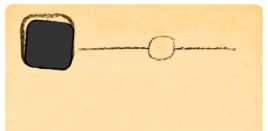
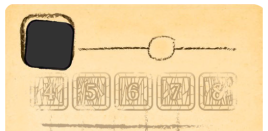
TableGUI - Aggiunti metodi per leggere le tool cards e le public objective cards dopo che sono state pescate e mostrarle su display - Nuovo menu Public Objective Cards - File necessari per il nuovo menu

diff --git a/src/main/java/Progetto_Ing_Sw/com/client/form.css b/src/main/java/Progetto_Ing_Sw/com/client/form.css
@@ -431,12 +431,16 @@
 }
 
 
-
-#CardMenu{
-    -fx-background-color: black;
-
-
+#PublicObjectiveCardMenuHeader{
+    -fx-background-color: transparent;
+    -fx-text-fill: black;
+    -fx-font: 25 "Centaur";
+    -fx-background-image: url("GUI/PublicObjectiveCardMenuHeader.png");
+    -fx-background-repeat: no-repeat;
+    /*-fx-effect: dropshadow( gaussian , rgba(0,0,0,0.75) , 4,0,0,1 );*/
 }
+
+
 #ToolCardMenu{
     -fx-background-color: transparent;
     -fx-background-repeat: no-repeat;
@@ -460,17 +464,16 @@
     -fx-background-image: url("GUI/ToolCardTile.png");
     -fx-background-repeat: no-repeat;
     -fx-effect: dropshadow( gaussian , rgba(0,0,0,0.75) , 4,0,0,1 );
-
 }
 
 
-#ToolCardBTN{
+#CardBTN{
     -fx-background-color: transparent;
     -fx-text-fill: black;
     -fx-font: 25 "Centaur";
 }
 
-#ToolCardBTN:hover{
+#CardBTN:hover{
     -fx-background-color: transparent;
     -fx-text-fill: #903b12;
     -fx-font: 25 "Centaur";
@@ -486,6 +489,15 @@
     -fx-font: 33 "Centaur";
     -fx-text-fill: black;
     -fx-font-weight: bold;
+}
+
+#PublicObjectiveCardLabel{
+    -fx-background-color: transparent;
+    -fx-text-fill: black;
+    -fx-font: 25 "Centaur";
+    -fx-background-image: url("GUI/PublicObjectiveCardTile.png");
+    -fx-background-repeat: no-repeat;
+    -fx-effect: dropshadow( gaussian , rgba(0,0,0,0.75) , 4,0,0,1 );
 }
 
 #PublicObjectiveCardDescription{

diff --git a/src/main/java/Progetto_Ing_Sw/com/client/TableGUI.java b/src/main/java/Progetto_Ing_Sw/com/client/TableGUI.java
@@ -1,6 +1,5 @@
 package Progetto_Ing_Sw.com.client;
 
-import Progetto_Ing_Sw.com.tools.JSONCreator;
 import com.google.gson.JsonArray;
 import com.google.gson.JsonElement;
 import com.google.gson.JsonObject;
@@ -22,7 +21,6 @@ import javafx.scene.text.Text;
 import javafx.scene.text.TextAlignment;
 import javafx.stage.Stage;
 import javafx.stage.StageStyle;
-import javafx.stage.Window;
 import javafx.util.Duration;
 
 import java.io.FileNotFoundException;
@@ -31,8 +29,9 @@ import java.io.FileReader;
 
 public class TableGUI extends Stage{
     Scene GameplayScene;
-    Label ToolCard1Label, ToolCard2Label, ToolCard3Label;
-    Button ToolCard1BTN, ToolCard2BTN, ToolCard3BTN;
+    Label ToolCard1Label, ToolCard2Label, ToolCard3Label, PublicObjectiveCard1Label, PublicObjectiveCard2Label, PublicObjectiveCard3Label;
+    Button ToolCard1BTN, ToolCard2BTN, ToolCard3BTN,PublicObjectiveCard1BTN, PublicObjectiveCard2BTN,PublicObjectiveCard3BTN;
+    Text PublicObjectiveCard1Description,PublicObjectiveCard2Description,PublicObjectiveCard3Description,PublicObjectiveCard1Value,PublicObjectiveCard2Value,PublicObjectiveCard3Value;
 
     TableGUI() {
         this.setTitle("Sagrada Game");
@@ -212,7 +211,7 @@ public class TableGUI extends Stage{
 
             //Bottoni che riferiscono alle Tool Cards
             ToolCard1BTN = new Button("Tool Card1");ToolCard1BTN.setTranslateY(-40);ToolCard1BTN.setTranslateX(10);
-            ToolCard1BTN.setId("ToolCardBTN");
+            ToolCard1BTN.setId("CardBTN");
             ToolCard1BTN.setOnAction(event -> {
                 ToolCard1BTN.setDisable(true);
                 ToolCardDisplayer ToolCard1Stage = new ToolCardDisplayer();
@@ -222,7 +221,7 @@ public class TableGUI extends Stage{
 
 
             ToolCard2BTN = new Button("Tool Card2");ToolCard2BTN.setTranslateY(-40);ToolCard2BTN.setTranslateX(10);
-            ToolCard2BTN.setId("ToolCardBTN");
+            ToolCard2BTN.setId("CardBTN");
             ToolCard2BTN.setOnAction(event -> {
                 ToolCard2BTN.setDisable(true);
                 ToolCardDisplayer ToolCard2Stage = new ToolCardDisplayer();
@@ -232,7 +231,7 @@ public class TableGUI extends Stage{
 
 
             ToolCard3BTN = new Button("Tool Card3");ToolCard3BTN.setTranslateY(-40);ToolCard3BTN.setTranslateX(10);
-            ToolCard3BTN.setId("ToolCardBTN");
+            ToolCard3BTN.setId("CardBTN");
             ToolCard3BTN.setOnAction(event -> {
                 ToolCard3BTN.setDisable(true);
                 ToolCardDisplayer ToolCard3Stage = new ToolCardDisplayer();
@@ -298,7 +297,6 @@ public class TableGUI extends Stage{
 
             //StackPane per contenere le carte
             StackPane ToolCardList = new StackPane();
-            ToolCardList.setAlignment(Pos.BOTTOM_LEFT);
             ToolCardList.setMaxHeight(280);
             ToolCardList.setPrefWidth(240);
             ToolCardList.setTranslateY(-100);
@@ -315,13 +313,13 @@ public class TableGUI extends Stage{
             //INIZIO  PUBLIC OBJECTIVE MENU
 
             //Contenuto del menu Public Objetives
-            Label PublicObjectiveCardMenuTitle = new Label("      Public Objectives");
-            PublicObjectiveCardMenuTitle.setStyle("-fx-background-color: transparent;" + "-fx-text-fill: white;" + "-fx-font: 25 \"Centaur\";");
+            Label PublicObjectiveCardMenuTitle = new Label("Public\nObjectives");PublicObjectiveCardMenuTitle.setTranslateY(50);PublicObjectiveCardMenuTitle.setTextAlignment(TextAlignment.CENTER);
+            PublicObjectiveCardMenuTitle.setStyle("-fx-background-color: transparent;"  + "-fx-font: 25 'Castellar';");
 
             //Bottoni che riferiscono alle Public Objective Cards
-            Button PublicObjectiveCard1 = new Button("Public Objective 1");
-            PublicObjectiveCard1.setId("ToolCardBTN");
-            PublicObjectiveCard1.setOnAction(new EventHandler<ActionEvent>() {
+            PublicObjectiveCard1BTN = new Button("Public Objective 1");PublicObjectiveCard1BTN.setTranslateX(22);PublicObjectiveCard1BTN.setTranslateY(8);
+            PublicObjectiveCard1BTN.setId("CardBTN");
+            PublicObjectiveCard1BTN.setOnAction(new EventHandler<ActionEvent>() {
                 @Override
                 public void handle(ActionEvent event) {
 
@@ -330,9 +328,9 @@ public class TableGUI extends Stage{
             });
 
 
-            Button PublicObjectiveCard2 = new Button("Public Objective 2");
-            PublicObjectiveCard2.setId("ToolCardBTN");
-            PublicObjectiveCard2.setOnAction(new EventHandler<ActionEvent>() {
+            PublicObjectiveCard2BTN = new Button("Public Objective 2");PublicObjectiveCard2BTN.setTranslateX(22);PublicObjectiveCard2BTN.setTranslateY(8);
+            PublicObjectiveCard2BTN.setId("CardBTN");
+            PublicObjectiveCard2BTN.setOnAction(new EventHandler<ActionEvent>() {
                 @Override
                 public void handle(ActionEvent event) {
                     new ToolCardDisplayer();
@@ -342,33 +340,57 @@ public class TableGUI extends Stage{
             });
 
 
-            Button PublicObjectiveCard3 = new Button("Public Objective 3");
-            PublicObjectiveCard3.setId("ToolCardBTN");
-            PublicObjectiveCard3.setOnAction(event -> {
-                PublicObjectiveCard3.setDisable(true);
+            PublicObjectiveCard3BTN = new Button("Public Objective 3");PublicObjectiveCard3BTN.setTranslateX(22);PublicObjectiveCard3BTN.setTranslateY(8);
+            PublicObjectiveCard3BTN.setId("CardBTN");
+            PublicObjectiveCard3BTN.setOnAction(event -> {
+                PublicObjectiveCard3BTN.setDisable(true);
                 PublicObjectiveCardDisplayer PublicDisplay3 = new PublicObjectiveCardDisplayer();
                 PublicDisplay3.showAndWait();
-                PublicObjectiveCard3.setDisable(false);
+                PublicObjectiveCard3BTN.setDisable(false);
             });
 
+            //Label delle Public Objective Cards
+            PublicObjectiveCard1Label = new Label();PublicObjectiveCard1Label.setMinSize(268,131);PublicObjectiveCard1Label.setId("PublicObjectiveCardLabel");
+            PublicObjectiveCard2Label = new Label();PublicObjectiveCard2Label.setMinSize(268,131);PublicObjectiveCard2Label.setId("PublicObjectiveCardLabel");
+            PublicObjectiveCard3Label = new Label();PublicObjectiveCard3Label.setMinSize(268,131);PublicObjectiveCard3Label.setId("PublicObjectiveCardLabel");
+
+
+            //Text per le descrizioni
+            PublicObjectiveCard1Description = new Text("Description");PublicObjectiveCard1Description.setStyle(" -fx-font: 17 'Centaur';");PublicObjectiveCard1Description.setTranslateY(30);
+            PublicObjectiveCard2Description = new Text("Description");PublicObjectiveCard2Description.setStyle(" -fx-font: 17 'Centaur';");PublicObjectiveCard2Description.setTranslateY(30);
+            PublicObjectiveCard3Description = new Text("Description");PublicObjectiveCard3Description.setStyle(" -fx-font: 17 'Centaur';");PublicObjectiveCard3Description.setTranslateY(30);
+
+            PublicObjectiveCard1Value= new Text("4");PublicObjectiveCard1Value.setStyle("-fx-font: 50 'Centaur';"+ "-fx-font-weight: bold;");PublicObjectiveCard1Value.setTranslateX(-86);PublicObjectiveCard1Value.setTranslateY(21);
+            PublicObjectiveCard2Value= new Text("5");PublicObjectiveCard2Value.setStyle("-fx-font: 50 'Centaur';"+ "-fx-font-weight: bold;");PublicObjectiveCard2Value.setTranslateX(-86);PublicObjectiveCard2Value.setTranslateY(21);
+            PublicObjectiveCard3Value= new Text("2");PublicObjectiveCard3Value.setStyle("-fx-font: 50 'Centaur';"+ "-fx-font-weight: bold;");PublicObjectiveCard3Value.setTranslateX(-86);PublicObjectiveCard3Value.setTranslateY(21);
+
+            //StackPane per i vari menù
+            StackPane PublicObjectiveMenuHeader = new StackPane();PublicObjectiveMenuHeader.setId("PublicObjectiveCardMenuHeader");PublicObjectiveMenuHeader.setTranslateY(-120);PublicObjectiveMenuHeader.setMinHeight(205);
+            PublicObjectiveMenuHeader.getChildren().add(PublicObjectiveCardMenuTitle);
+
+            StackPane PublicObjectiveCard1= new StackPane();PublicObjectiveCard1.setTranslateY(-10);
+            PublicObjectiveCard1.getChildren().addAll(PublicObjectiveCard1Label,PublicObjectiveCard1BTN,PublicObjectiveCard1Description,PublicObjectiveCard1Value);
+
+            StackPane PublicObjectiveCard2= new StackPane();PublicObjectiveCard2.setTranslateY(65);
+            PublicObjectiveCard2.getChildren().addAll(PublicObjectiveCard2Label,PublicObjectiveCard2BTN,PublicObjectiveCard2Description,PublicObjectiveCard2Value);
+
+            StackPane PublicObjectiveCard3= new StackPane();PublicObjectiveCard3.setTranslateY(140);
+            PublicObjectiveCard3.getChildren().addAll(PublicObjectiveCard3Label,PublicObjectiveCard3BTN,PublicObjectiveCard3Description,PublicObjectiveCard3Value);
 
 
 
-
-            //VBox per contenere le carte
-            VBox PublicObjectiveCardList = new VBox(20);
-            PublicObjectiveCardList.setAlignment(Pos.BOTTOM_LEFT);
-            PublicObjectiveCardList.setMaxHeight(280);
+            //StackPane per contenere le Public Objective Cards
+            StackPane PublicObjectiveCardList = new StackPane();
+            PublicObjectiveCardList.setMaxHeight(350);
             PublicObjectiveCardList.setPrefWidth(240);
-            PublicObjectiveCardList.setTranslateY(-100);
-            PublicObjectiveCardList.getChildren().addAll(PublicObjectiveCard1, PublicObjectiveCard2, PublicObjectiveCard3);
+            PublicObjectiveCardList.setTranslateY(0);
+            PublicObjectiveCardList.getChildren().addAll(PublicObjectiveCard3, PublicObjectiveCard2, PublicObjectiveCard1, PublicObjectiveMenuHeader);
 
             //VBox del Menu Public Objective Card
-            VBox PublicObjectiveMenu = new VBox(120);
-            PublicObjectiveMenu.setId("CardMenu");
+            VBox PublicObjectiveMenu = new VBox(100);PublicObjectiveMenu.setTranslateY(-30);
             PublicObjectiveMenu.setMaxHeight(280);
             PublicObjectiveMenu.setMaxWidth(240);
-            PublicObjectiveMenu.getChildren().addAll(PublicObjectiveCardMenuTitle, PublicObjectiveCardList);
+            PublicObjectiveMenu.getChildren().add(PublicObjectiveCardList);
 
             //FINE PUBLIC OBJECTIVE MENU
 
@@ -435,6 +457,17 @@ public class TableGUI extends Stage{
 
         public void updatePublicObjectiveCards(){
             Platform.runLater(()->{
+                PublicObjectiveCard1BTN.setText(LocalModel.getInstance().getDrawnPublicObjectiveCards().get(0).getTitle());
+                PublicObjectiveCard1Value.setText(Integer.toString(LocalModel.getInstance().getDrawnPublicObjectiveCards().get(0).getVictoryPoints()));
+                PublicObjectiveCard1Description.setText(LocalModel.getInstance().getDrawnPublicObjectiveCards().get(0).getDescription());
+
+                PublicObjectiveCard2BTN.setText(LocalModel.getInstance().getDrawnPublicObjectiveCards().get(1).getTitle());
+                PublicObjectiveCard2Value.setText(Integer.toString(LocalModel.getInstance().getDrawnPublicObjectiveCards().get(1).getVictoryPoints()));
+                PublicObjectiveCard2Description.setText(LocalModel.getInstance().getDrawnPublicObjectiveCards().get(1).getDescription());
+
+                PublicObjectiveCard3BTN.setText(LocalModel.getInstance().getDrawnPublicObjectiveCards().get(2).getTitle());
+                PublicObjectiveCard3Value.setText(Integer.toString(LocalModel.getInstance().getDrawnPublicObjectiveCards().get(2).getVictoryPoints()));
+                PublicObjectiveCard3Description.setText(LocalModel.getInstance().getDrawnPublicObjectiveCards().get(2).getDescription());
 
             });
         }
